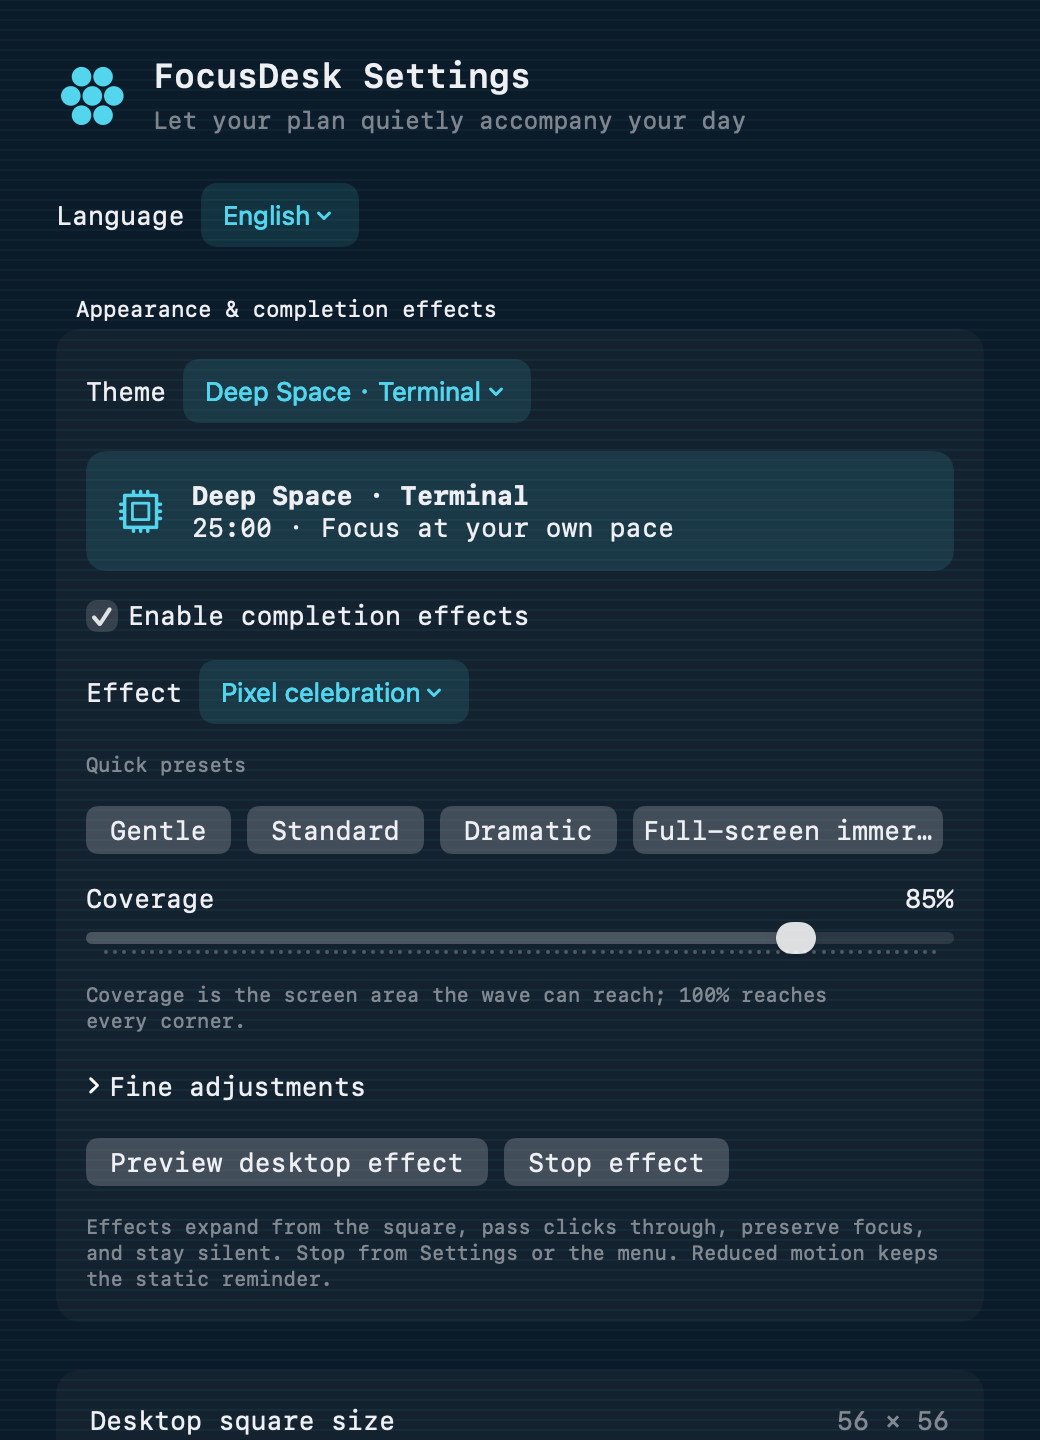
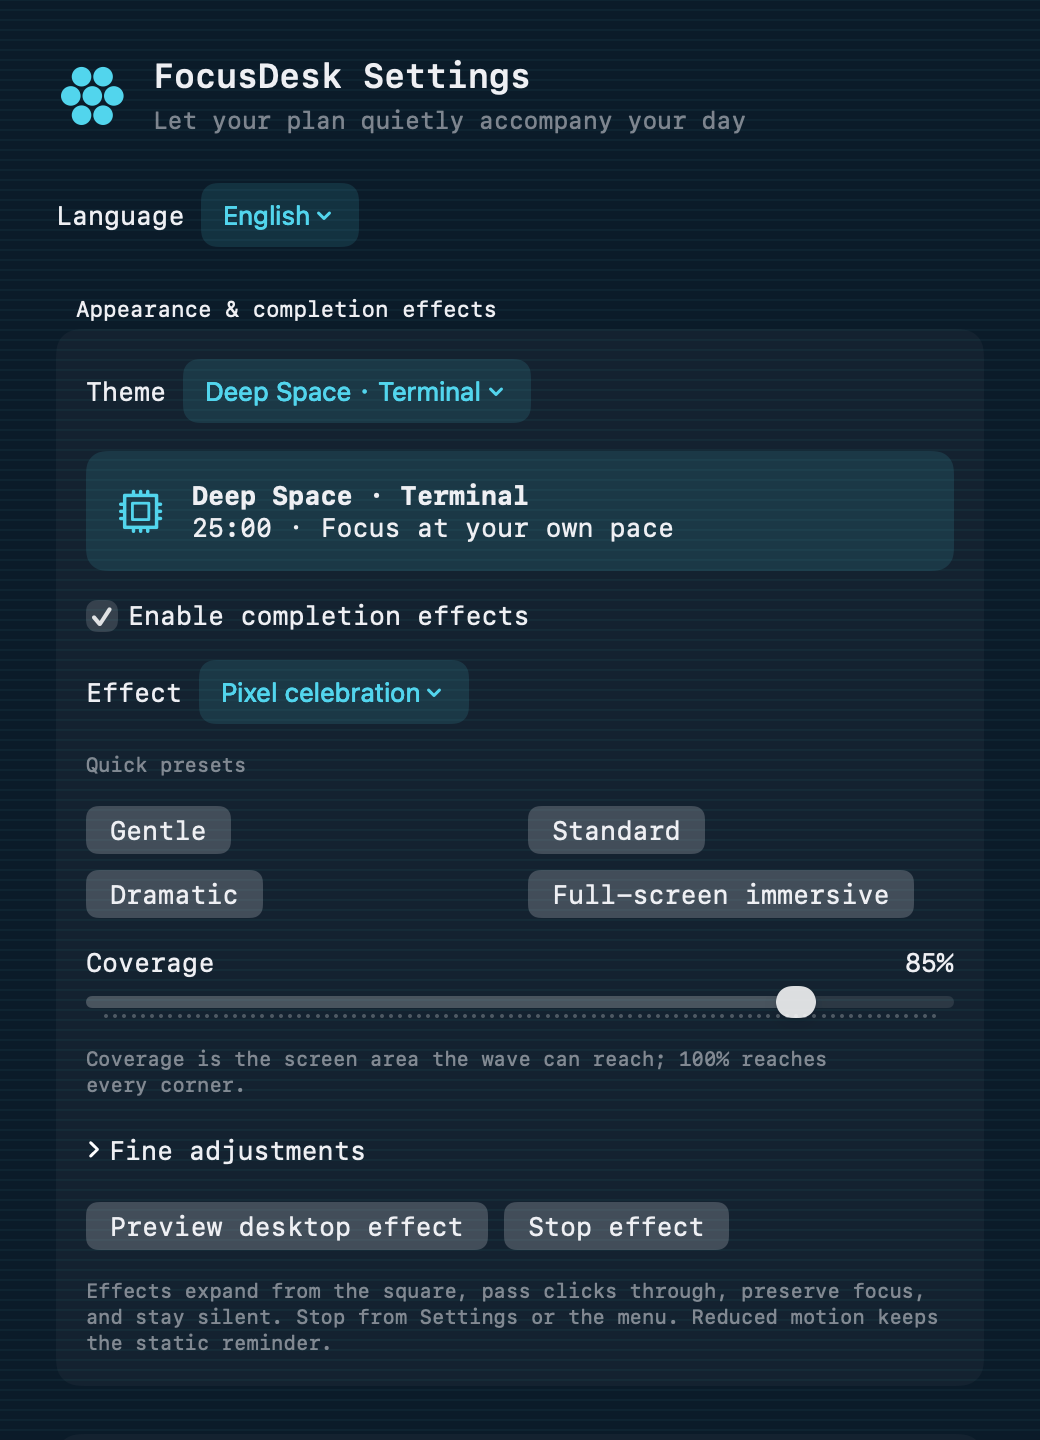
Keep full preset labels visible in both languages

diff --git a/FocusDesk/Views/SettingsView.swift b/FocusDesk/Views/SettingsView.swift
@@ -80,9 +80,10 @@ struct SettingsView: View {
                             .background(store.theme.accent.opacity(0.12), in: RoundedRectangle(cornerRadius: 8))
                         }
                         Text(L("快捷预设")).font(.caption).foregroundStyle(.secondary)
-                        HStack {
+                        LazyVGrid(columns: [GridItem(.flexible()), GridItem(.flexible())], alignment: .leading) {
                             ForEach(EffectIntensity.allCases) { preset in
                                 Button(preset.title) { store.effectIntensity = preset }
+                                    .fixedSize()
                             }
                         }
                         effectSlider("覆盖范围", value: $store.effectConfiguration.coverage, range: 0.1...1, step: 0.01, percent: true)
